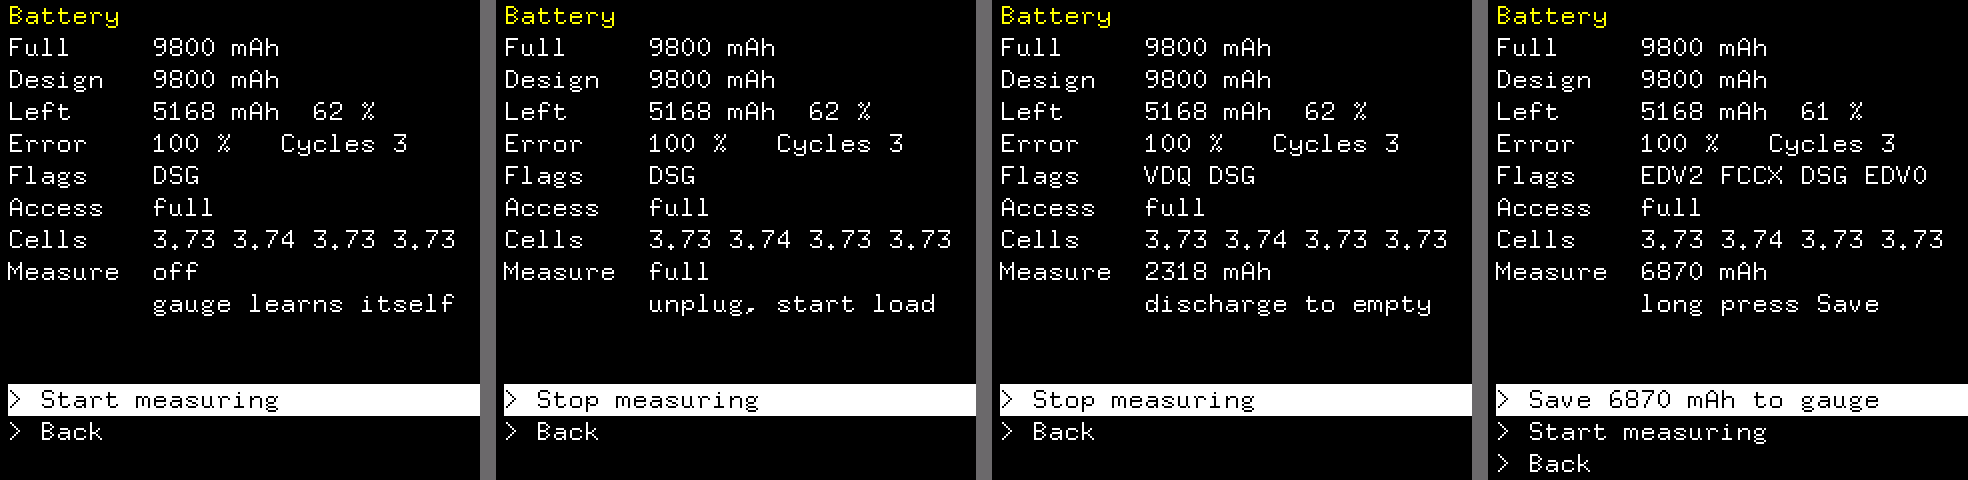
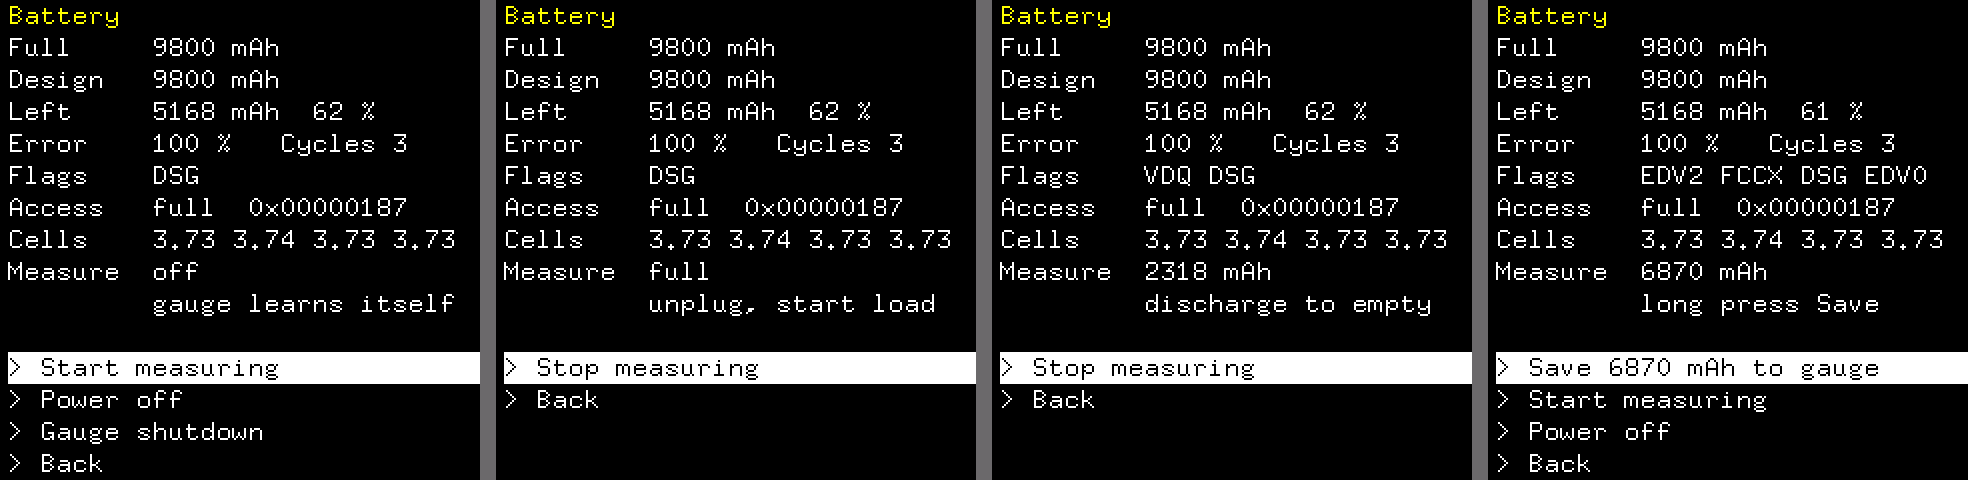
Power off through PB4, pin survey tool
On battery the board turns off when PB4 gets the GPIO pull-up or is driven
low; a long button press turns it back on, and with a charger connected it
stays on until the charger goes away. The firmware leaves PB4 as after
reset and drives it low only for the new Power off action on the battery
page, which also offers the gauge's shutdown command.

pins: read-only survey of the unused MCU pins, with a slow mode for
finding a pin that cuts the power.

diff --git a/firmware/src/pins.rs b/firmware/src/pins.rs
@@ -1,0 +1,213 @@
+//! Survey of the MCU pins the firmware doesn't use: which ones something on the board drives.
+//!
+//! Every pin is read floating, then with the internal pull-up, then with the pull-down
+//! (about 40 kΩ), and left floating again, as after reset. A pin that reads the same with
+//! both pulls is driven, or pulled by a resistor stronger than the internal one: it is
+//! connected to something. A pin that follows the pulls is unconnected, or goes to a
+//! high-impedance input. Pins never drive anything.
+//!
+//! PB4 is left out: on battery the whole board goes dark when it gets the GPIO pull-up, and
+//! when it is driven low. It reads low with either pull. Left as after reset (JTAG's NJTRST)
+//! or floating, nothing happens; with a charger connected nothing happens either.
+//!
+//! Found on battery, charger unplugged: PA6, PB2 (BOOT1) driven low; PB12, PB13 driven
+//! high; every other pin follows the pulls, and none of them changes the board's power.
+//!
+//! Prints a table over RTT, then a line whenever a pin's class changes, twice a second:
+//! plug and unplug things meanwhile to see which pins follow them.
+
+#![no_std]
+#![no_main]
+
+// Only the idle profile and `CycleDelay`
+#[allow(dead_code)]
+mod clock;
+
+use embedded_hal::delay::DelayNs;
+use panic_rtt_target as _;
+use rtt_target::{rprintln, rtt_init_print};
+
+use stm32f1xx_hal::{pac, prelude::*};
+
+use clock::CycleDelay;
+
+/// Pins of the 48-pin package the firmware leaves alone: not the display, the button, the
+/// backlight, the two I2C buses or SWD
+const PINS: &[(usize, u8)] = &[
+  (0, 4),
+  (0, 6),
+  (0, 9),
+  (0, 10),
+  (0, 11),
+  (0, 12),
+  (0, 15),
+  (1, 0),
+  (1, 1),
+  (1, 2),
+  (1, 3),
+  // PB4 turns the power off: a weak pull-up is enough
+  (1, 5),
+  (1, 8),
+  (1, 9),
+  (1, 12),
+  (1, 13),
+  (1, 14),
+  (1, 15),
+  (2, 13),
+  (2, 14),
+  (2, 15),
+  (3, 0),
+  (3, 1),
+];
+const PORT_NAMES: [char; 4] = ['A', 'B', 'C', 'D'];
+
+/// CNF/MODE nibbles
+const FLOATING: u32 = 0b0100;
+const PULLED: u32 = 0b1000;
+
+#[derive(Clone, Copy, PartialEq, Eq)]
+enum Class {
+  /// Reads high with either pull
+  High,
+  /// Reads low with either pull
+  Low,
+  /// Follows the pulls
+  Open,
+  /// High with the pull-down and low with the pull-up: shouldn't happen
+  Odd,
+}
+
+impl Class {
+  fn name(self) -> &'static str {
+    match self {
+      Class::High => "driven high",
+      Class::Low => "driven low",
+      Class::Open => "follows pulls",
+      Class::Odd => "odd",
+    }
+  }
+}
+
+fn port(index: usize) -> &'static pac::gpioa::RegisterBlock {
+  // SAFETY: the ports' register blocks; the HAL parts that own them are dropped
+  unsafe {
+    match index {
+      0 => &*pac::GPIOA::ptr(),
+      1 => &*pac::GPIOB::ptr(),
+      2 => &*pac::GPIOC::ptr(),
+      _ => &*pac::GPIOD::ptr(),
+    }
+  }
+}
+
+fn set_mode(index: usize, pin: u8, nibble: u32) {
+  let gpio = port(index);
+  let shift = (pin as u32 % 8) * 4;
+  // SAFETY: changes only this pin's nibble
+  if pin < 8 {
+    gpio.crl().modify(|r, w| unsafe { w.bits((r.bits() & !(0xf << shift)) | (nibble << shift)) });
+  } else {
+    gpio.crh().modify(|r, w| unsafe { w.bits((r.bits() & !(0xf << shift)) | (nibble << shift)) });
+  }
+}
+
+fn read(index: usize, pin: u8) -> bool {
+  port(index).idr().read().bits() & (1 << pin) != 0
+}
+
+/// Floating level and class of one pin; leaves it floating
+fn probe(index: usize, pin: u8) -> (bool, Class) {
+  let mut delay = CycleDelay;
+  let floating = read(index, pin);
+  // ODR selects the pull: 1 up, 0 down. BSRR sets or resets one bit.
+  let gpio = port(index);
+  gpio.bsrr().write(|w| unsafe { w.bits(1 << pin) });
+  set_mode(index, pin, PULLED);
+  delay.delay_ms(2);
+  let up = read(index, pin);
+  gpio.bsrr().write(|w| unsafe { w.bits(1 << (pin + 16)) });
+  delay.delay_ms(2);
+  let down = read(index, pin);
+  set_mode(index, pin, FLOATING);
+  let class = match (up, down) {
+    (true, true) => Class::High,
+    (false, false) => Class::Low,
+    (true, false) => Class::Open,
+    (false, true) => Class::Odd,
+  };
+  (floating, class)
+}
+
+#[cortex_m_rt::entry]
+fn main() -> ! {
+  let mut cp = cortex_m::Peripherals::take().unwrap();
+  let dp = pac::Peripherals::take().unwrap();
+  let mut flash = dp.FLASH.constrain();
+  let mut rcc = dp.RCC.freeze(clock::idle_config(), &mut flash.acr);
+  cp.DCB.enable_trace();
+  cp.DWT.enable_cycle_counter();
+  rtt_init_print!(rtt_target::ChannelMode::NoBlockSkip, 4096);
+
+  // Clocks the ports
+  let _afio = dp.AFIO.constrain(&mut rcc);
+  let _ = dp.GPIOA.split(&mut rcc);
+  let _ = dp.GPIOB.split(&mut rcc);
+  let _ = dp.GPIOC.split(&mut rcc);
+  let _ = dp.GPIOD.split(&mut rcc);
+  // PA15 and PB3 leave JTAG, SWD stays; PD0 and PD1 (HSE) become GPIO
+  // SAFETY: AFIO MAPR, SWJ_CFG (bits 24-26) and PD01_REMAP (bit 15)
+  unsafe { (*pac::AFIO::ptr()).mapr().write(|w| w.bits(0b010 << 24 | 1 << 15)) };
+
+  if HUNT {
+    hunt();
+  }
+
+  let mut classes = [Class::Open; PINS.len()];
+  rprintln!("pin  floating  pulls");
+  for (i, &(index, pin)) in PINS.iter().enumerate() {
+    let (floating, class) = probe(index, pin);
+    classes[i] = class;
+    rprintln!("P{}{:<2}  {}         {}", PORT_NAMES[index], pin, floating as u8, class.name());
+  }
+
+  let mut delay = CycleDelay;
+  let mut half_seconds = 0u32;
+  rprintln!("watching");
+  loop {
+    delay.delay_ms(500);
+    half_seconds += 1;
+    for (i, &(index, pin)) in PINS.iter().enumerate() {
+      let (_, class) = probe(index, pin);
+      if class != classes[i] {
+        let (s, tenths) = (half_seconds / 2, (half_seconds % 2) * 5);
+        rprintln!("{}.{}s P{}{}: {} -> {}", s, tenths, PORT_NAMES[index], pin, classes[i].name(), class.name());
+        classes[i] = class;
+      }
+    }
+  }
+}
+
+/// Finding a pin that cuts the power, on battery: each pull is announced in the log 4 s before
+/// it is applied for 0.1 s, so when the board goes dark the last line read names the pin.
+/// Read the log continuously from the host meanwhile.
+const HUNT: bool = false;
+
+fn hunt() -> ! {
+  let mut delay = CycleDelay;
+  loop {
+    for &(index, pin) in PINS {
+      for (up, name) in [(true, "up"), (false, "down")] {
+        rprintln!("next P{}{} pull-{}", PORT_NAMES[index], pin, name);
+        delay.delay_ms(4000);
+        let bit = if up { 1 << pin } else { 1 << (pin + 16) };
+        // SAFETY: BSRR sets or resets this pin's ODR bit only, which picks its pull
+        port(index).bsrr().write(|w| unsafe { w.bits(bit) });
+        set_mode(index, pin, PULLED);
+        delay.delay_ms(100);
+        let level = read(index, pin);
+        set_mode(index, pin, FLOATING);
+        rprintln!("  survived, read {}", level as u8);
+      }
+    }
+  }
+}

diff --git a/graphics/src/battery.rs b/graphics/src/battery.rs
@@ -32,13 +32,17 @@ pub enum Action {
   StartMeasuring,
   StopMeasuring,
   Save(u16),
+  /// The board's power switch: off at once on battery, with a charger once it goes away
+  PowerOff,
+  /// Gauge shutdown: the gauge turns the battery off until a charger is connected
+  GaugeShutdown,
   Back,
 }
 
 /// Lines of the page
 const LINES: usize = 14;
 /// First line of the actions
-const ACTIONS_LINE: usize = 11;
+const ACTIONS_LINE: usize = 10;
 
 pub struct BatteryPage {
   menu: Menu,
@@ -52,12 +56,14 @@ impl BatteryPage {
     Self { menu: Menu::new(), selected: 0, message: "" }
   }
 
-  /// The actions in this measurement phase, and how many there are
-  pub fn actions(phase: Phase) -> ([Action; 3], usize) {
+  /// The actions in this measurement phase, and how many there are. Powering off isn't
+  /// offered while measuring: the measurement lives in RAM.
+  pub fn actions(phase: Phase) -> ([Action; 4], usize) {
+    use Action::*;
     match phase {
-      Phase::Idle | Phase::Interrupted => ([Action::StartMeasuring, Action::Back, Action::Back], 2),
-      Phase::Done { mah } => ([Action::Save(mah), Action::StartMeasuring, Action::Back], 3),
-      _ => ([Action::StopMeasuring, Action::Back, Action::Back], 2),
+      Phase::Idle | Phase::Interrupted => ([StartMeasuring, PowerOff, GaugeShutdown, Back], 4),
+      Phase::Done { mah } => ([Save(mah), StartMeasuring, PowerOff, Back], 4),
+      _ => ([StopMeasuring, Back, Back, Back], 2),
     }
   }
 
@@ -98,7 +104,7 @@ impl BatteryPage {
     lines[2] = line(format_args!("Left     {} mAh  {} %", d.remaining_mah, s.charge));
     lines[3] = line(format_args!("Error    {} %   Cycles {}", d.max_error, s.cycles));
     lines[4] = flags(d.gauging);
-    lines[5] = line(format_args!("Access   {}", access(d.operation)));
+    lines[5] = line(format_args!("Access   {}  {:#010x}", access(d.operation), d.operation));
     let c = s.cell_volts;
     lines[6] = line(format_args!("Cells    {:.2} {:.2} {:.2} {:.2}", c[0], c[1], c[2], c[3]));
     let (state, hint) = describe(phase);
@@ -111,6 +117,8 @@ impl BatteryPage {
         Action::StartMeasuring => line(format_args!("> Start measuring")),
         Action::StopMeasuring => line(format_args!("> Stop measuring")),
         Action::Save(mah) => line(format_args!("> Save {} mAh to gauge", mah)),
+        Action::PowerOff => line(format_args!("> Power off")),
+        Action::GaugeShutdown => line(format_args!("> Gauge shutdown")),
         Action::Back => line(format_args!("> Back")),
       };
     }
@@ -189,9 +197,22 @@ mod tests {
     let done = Phase::Done { mah: 6870 };
     page.press(Press::Short, done);
     page.press(Press::Short, done);
+    assert_eq!(page.press(Press::Long, done), Some(Action::PowerOff));
+    page.press(Press::Short, done);
     assert_eq!(page.press(Press::Long, done), Some(Action::Back));
     page.press(Press::Short, done);
     assert_eq!(page.press(Press::Long, done), Some(Action::Save(6870)));
+  }
+
+  #[test]
+  fn power_off_is_not_offered_while_measuring() {
+    let mut page = BatteryPage::new();
+    let measuring = Phase::Discharging { mah: 10.0, charged_mah: 0.0 };
+    for _ in 0..4 {
+      page.press(Press::Short, measuring);
+      let action = page.press(Press::Long, measuring);
+      assert!(!matches!(action, Some(Action::PowerOff | Action::GaugeShutdown)), "{action:?}");
+    }
   }
 
   #[test]
@@ -200,7 +221,8 @@ mod tests {
     let done = Phase::Done { mah: 6870 };
     page.press(Press::Short, done);
     page.press(Press::Short, done);
-    // Third action selected; idle has two
-    assert_eq!(page.press(Press::Long, Phase::Idle), Some(Action::StartMeasuring));
+    // Third action selected; measuring has two
+    let measuring = Phase::Discharging { mah: 10.0, charged_mah: 0.0 };
+    assert_eq!(page.press(Press::Long, measuring), Some(Action::StopMeasuring));
   }
 }

diff --git a/firmware/src/app.rs b/firmware/src/app.rs
@@ -87,6 +87,22 @@ enum Page {
   Battery,
 }
 
+/// Switches the board off while it runs on battery; with a charger connected it stays on until
+/// the charger goes away. PB4 must otherwise stay as after reset, JTAG's NJTRST: on battery
+/// the board went dark both when PB4 got the GPIO pull-up and when it was driven low. What
+/// the pin controls on the board is not known yet.
+fn power_off() {
+  // SAFETY: GPIOB pin 4 only, and AFIO SWJ_CFG; SWD stays enabled
+  unsafe {
+    let gpiob = &*pac::GPIOB::ptr();
+    gpiob.bsrr().write(|w| w.bits(1 << (4 + 16)));
+    gpiob.crl().modify(|r, w| w.bits((r.bits() & !(0xf << 16)) | (0b0010 << 16)));
+    // JTAG without NJTRST: PB4 becomes a GPIO
+    let afio = &*pac::AFIO::ptr();
+    afio.mapr().modify(|r, w| w.bits((r.bits() & !(0b111 << 24)) | (0b001 << 24)));
+  }
+}
+
 /// Milliseconds from the RTC counter and its prescaler divider: the same clock as the 1 Hz
 /// tick, independent of the clock profile. Wraps after 49 days.
 fn rtc_millis() -> u32 {
@@ -174,7 +190,6 @@ mod firmware {
     let mut afio = cx.device.AFIO.constrain(&mut rcc);
     let mut gpioa = cx.device.GPIOA.split(&mut rcc);
     let mut gpiob = cx.device.GPIOB.split(&mut rcc);
-
     // PA8 - backlight, low is off
     let backlight = gpioa.pa8.into_alternate_push_pull(&mut gpioa.crh);
     let mut backlight = Timer::new(cx.device.TIM1, &mut rcc)
@@ -376,6 +391,16 @@ mod firmware {
             rprintln!("{}s: save {} mAh: {}", seconds, mah, message);
             battery.set_message(message);
           }
+          Some(Action::PowerOff) => {
+            rprintln!("{}s: power off", seconds);
+            battery.set_message("Off: unplug the charger");
+            power_off();
+          }
+          Some(Action::GaugeShutdown) => {
+            let sent = logged("BQ4050 shutdown", cx.local.bq4050.shutdown()).is_some();
+            rprintln!("{}s: gauge shutdown sent: {}", seconds, sent);
+            battery.set_message(if sent { "Gauge shutdown sent" } else { "Gauge shutdown failed" });
+          }
           Some(Action::Back) => {
             *page = Page::Main;
             *screen = crate::Screen::new();
@@ -413,7 +438,7 @@ mod firmware {
         cx.local.clock.fast(|| screen.update(s, display)).ok();
       }
       Page::Battery => {
-        measure_details(details, cx.local.bq4050);
+        measure_details(details, cx.local.bq4050, seconds);
         let phase = measurement.phase();
         cx.local.clock.fast(|| battery.update(s, details, phase, display)).ok();
       }
@@ -423,7 +448,7 @@ mod firmware {
   }
 
   /// Gauge values only the battery page shows
-  fn measure_details(d: &mut Details, bq4050: &mut Gauge) {
+  fn measure_details(d: &mut Details, bq4050: &mut Gauge, seconds: u32) {
     if let Some(mah) = logged("BQ4050 full charge capacity", bq4050.get_full_charge_capacity()) {
       d.full_mah = mah;
     }
@@ -434,6 +459,9 @@ mod firmware {
       d.max_error = percents;
     }
     if let Some(status) = logged("BQ4050 operation status", bq4050.get_operation_status()) {
+      if status != d.operation {
+        rprintln!("{}s: OperationStatus {:#010x}", seconds, status);
+      }
       d.operation = status;
     }
   }

diff --git a/peripherals/src/bq4050.rs b/peripherals/src/bq4050.rs
@@ -719,6 +719,13 @@ where
     self.block_access(subcommand, &[])
   }
 
+  /// MAC 0x0010 Shutdown: after a delay the gauge turns its FETs off and sleeps until a
+  /// charger shows up on PACK. With a charger present it doesn't finish until the charger
+  /// goes away.
+  pub fn shutdown(&mut self) -> Result<(), Error<I2cError>> {
+    self.mac_command(0x0010)
+  }
+
   /// Unseals or grants full access: the two key words go to ManufacturerAccess(), and must
   /// arrive within 4 s of each other
   pub fn send_key(&mut self, first: u16, second: u16) -> Result<(), Error<I2cError>> {
